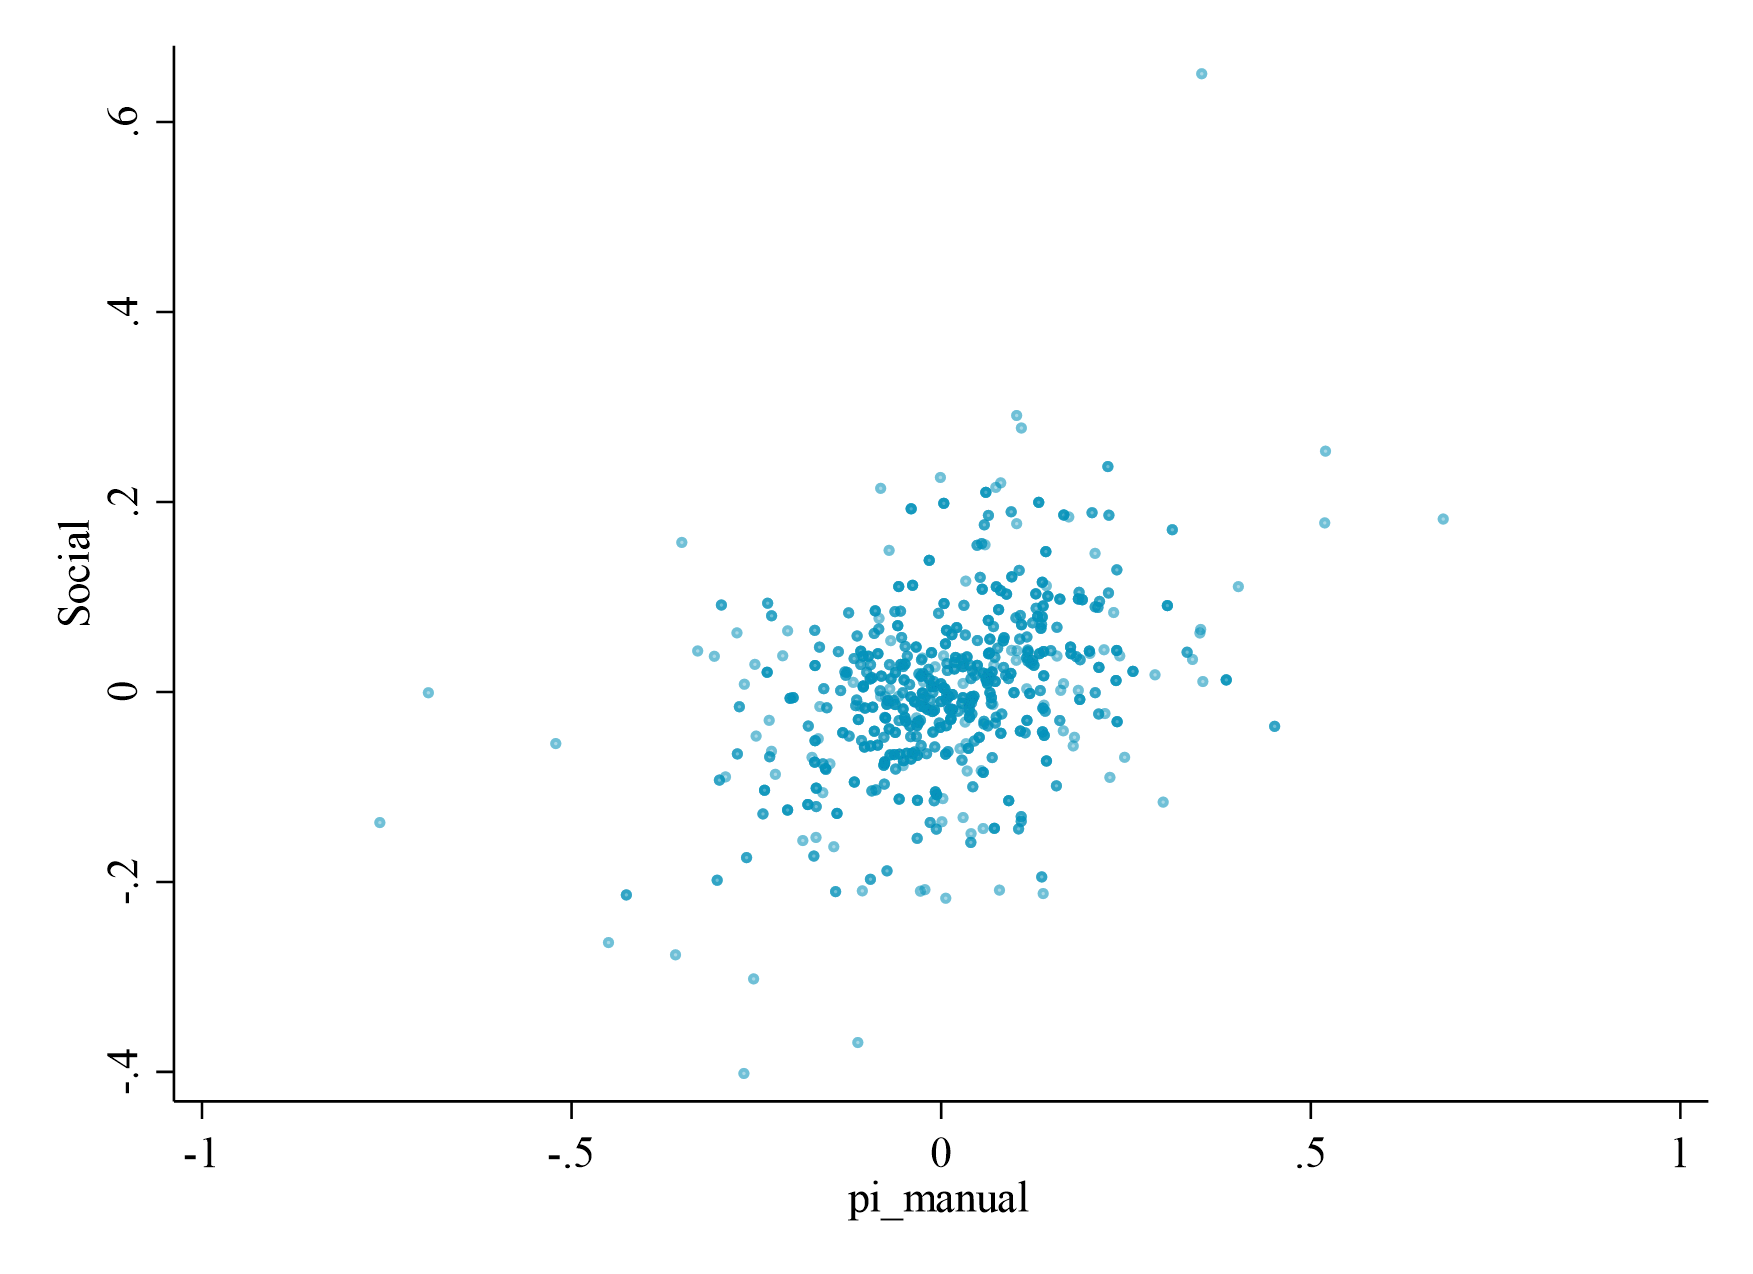
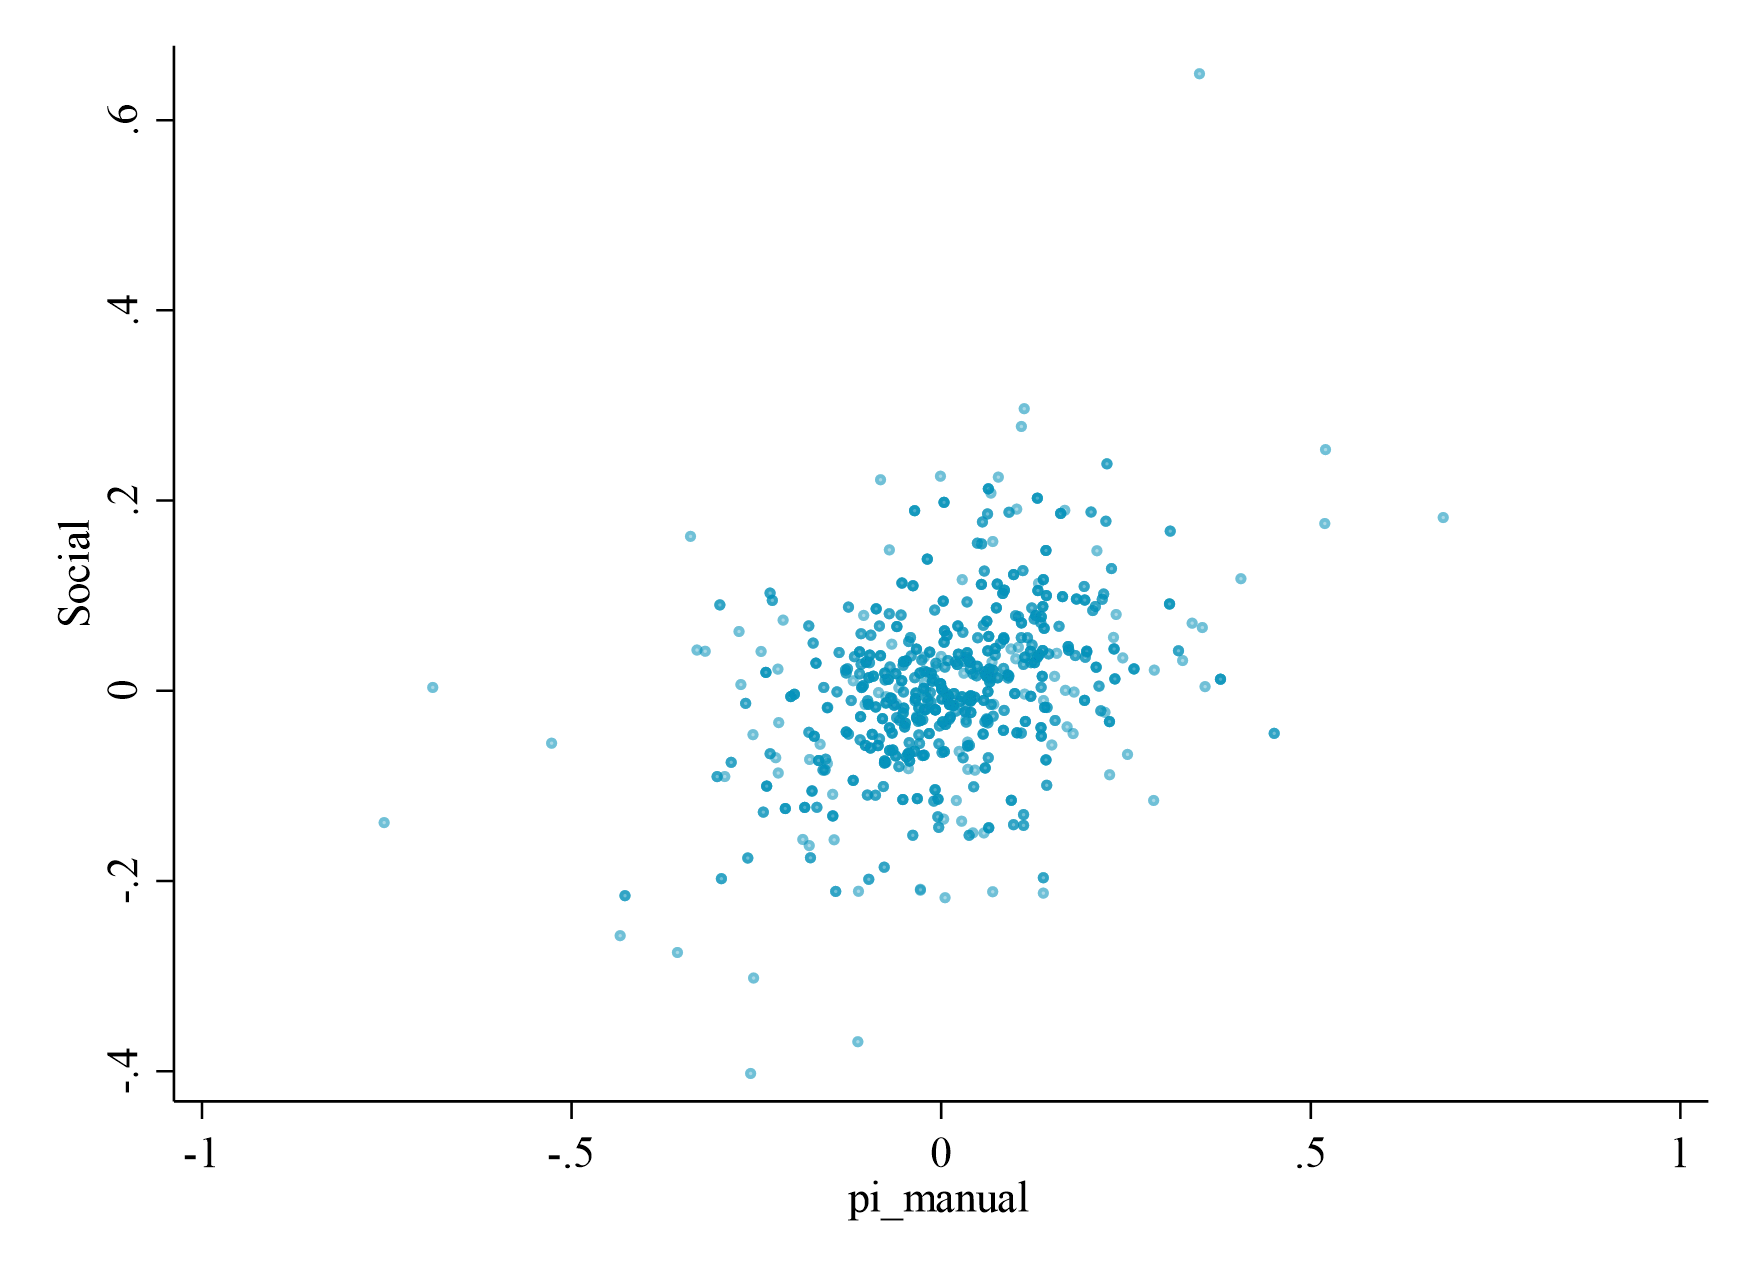
Added average of log results

diff --git a/results/figures/pi_indexes.tex b/results/figures/pi_indexes.tex
@@ -3,5 +3,5 @@
 \caption{title}
 \label{fig:key}
 \subfloat[Pooled]{\includegraphics[width=.5\textwidth]{../results/figures/pi_social_pooled}} \subfloat[2000-2017]{\includegraphics[width=.5\textwidth]{../results/figures/pi_social_all}} \\ \subfloat[Pooled]{\includegraphics[width=.5\textwidth]{../results/figures/pi_routine_pooled}} \subfloat[2000-2017]{\includegraphics[width=.5\textwidth]{../results/figures/pi_routine_all}} \\ 
-\par \begin{minipage}[h]{\textwidth}{\scriptsize\textbf{Note:} figure note. Figure generated on  3 May 2022 at 10:08:45.}\end{minipage}
+\par \begin{minipage}[h]{\textwidth}{\scriptsize\textbf{Note:} figure note. Figure generated on 12 May 2022 at 21:03:14.}\end{minipage}
 \end{figure}

diff --git a/results/tables/pi_variation_global_base_pooled.tex b/results/tables/pi_variation_global_base_pooled.tex
@@ -8,7 +8,7 @@
 \midrule
 Routine             &       -0.00&        0.15&       -0.09&        0.09\\
 pi\_manual           &        0.01&        0.13&       -0.07&        0.09\\
-Social              &        0.00&        0.08&       -0.04&        0.04\\
+Social              &        0.00&        0.09&       -0.04&        0.04\\
 \midrule
 Observations        &        3948&            &            &            \\
 \bottomrule

diff --git a/documentation/documentation.tex b/documentation/documentation.tex
@@ -12,7 +12,7 @@
 
 \section{New approach:}
 \benu 
-	\item Estimate $\Delta\ln A_i$ using:
+	\item Let $S_{ijet}$ be the . Estimate $\Delta\ln A_i$ using:
 	\beqns
 		\Delta \ln S_{ijet}-\Delta \ln S_{iket}&=&\frac{\sigma_j}{\sigma_j-1}\left(\Delta\ln A_{ikt}-\Delta\ln A_{ijt}\right)
 	\eeqns
